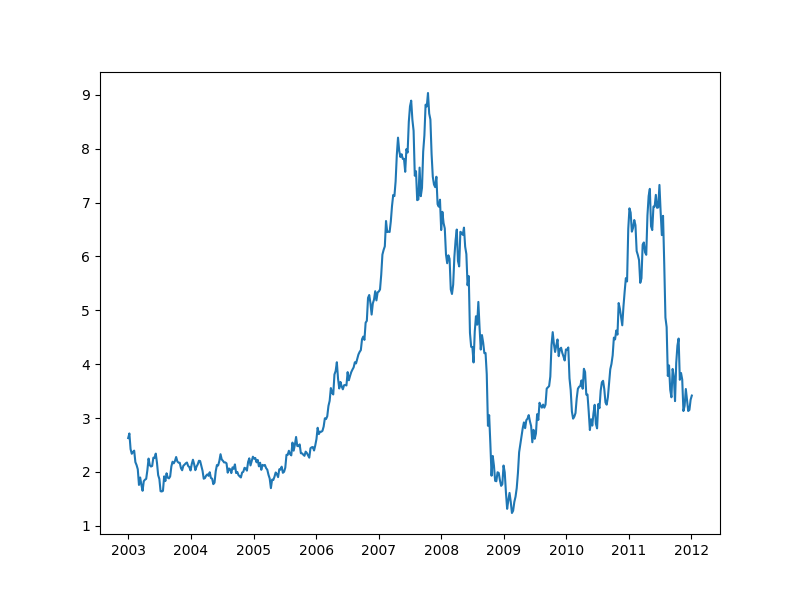
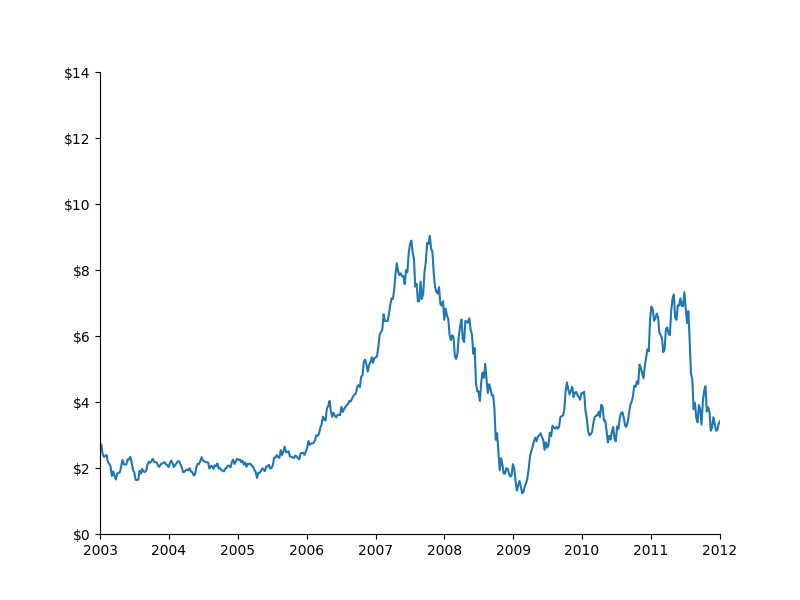
finished graph1

diff --git a/graph1.py b/graph1.py
@@ -1,5 +1,3 @@
-# libraries
-# libraries and data
 import matplotlib.pyplot as plt
 import numpy as np
 # import seaborn as sns
@@ -8,19 +6,20 @@ import matplotlib.pyplot as plt
 import matplotlib.ticker as mtick
 from datetime import datetime
 
-df = pd.read_csv('Graph1.csv', ';')
+df = pd.read_csv('data1.csv', ';')
 df.Date = pd.to_datetime(df.Date, dayfirst=True)
 df.reset_index(drop=True, inplace=True)
 df.set_index("Date", inplace=True)
 
-fig, ax = plt.subplots()
-plt.figure(figsize=(8, 6))
-df.plot()
-lims = [min(df.index), max(df.index), 0, 14]
-plt.axis(lims)
-fmt = '${x:,.0f}' # formato se borra
+fig = plt.figure(figsize=(8, 6))
+ax = fig.add_subplot(111)
+ax.plot(df)
+fmt = '${x:,.0f}'  # formato se borra
 tick = mtick.StrMethodFormatter(fmt)
+ax.set_ylim(0, 14)
+ax.set_xlim(min(df.index), max(df.index))
 ax.yaxis.set_major_formatter(tick)
-# ax.spines['top'].set_visible(False)
-# plt.savefig('graph1.png')
-plt.show()
+ax.spines['top'].set_visible(False)
+ax.spines['right'].set_visible(False)
+fig.savefig('graph1.png')
+fig.show()
